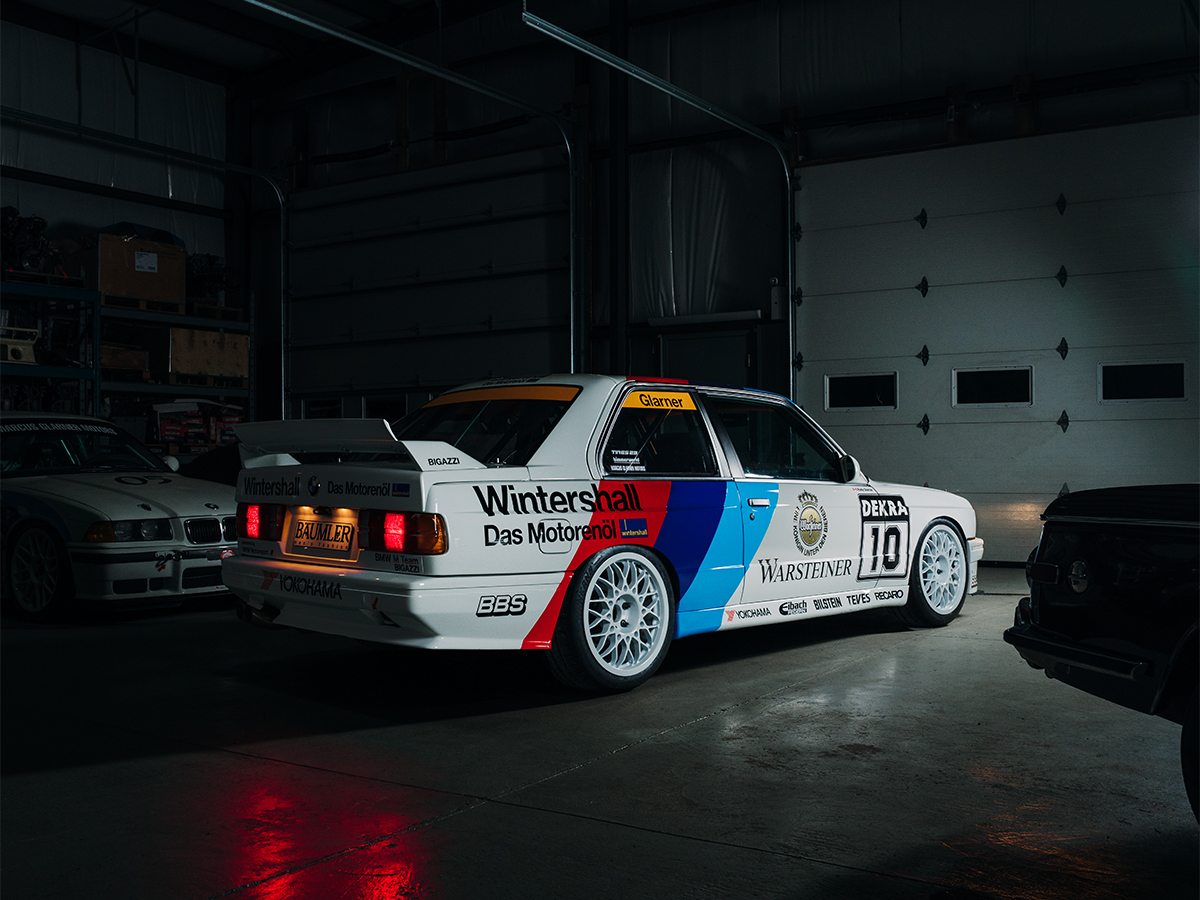
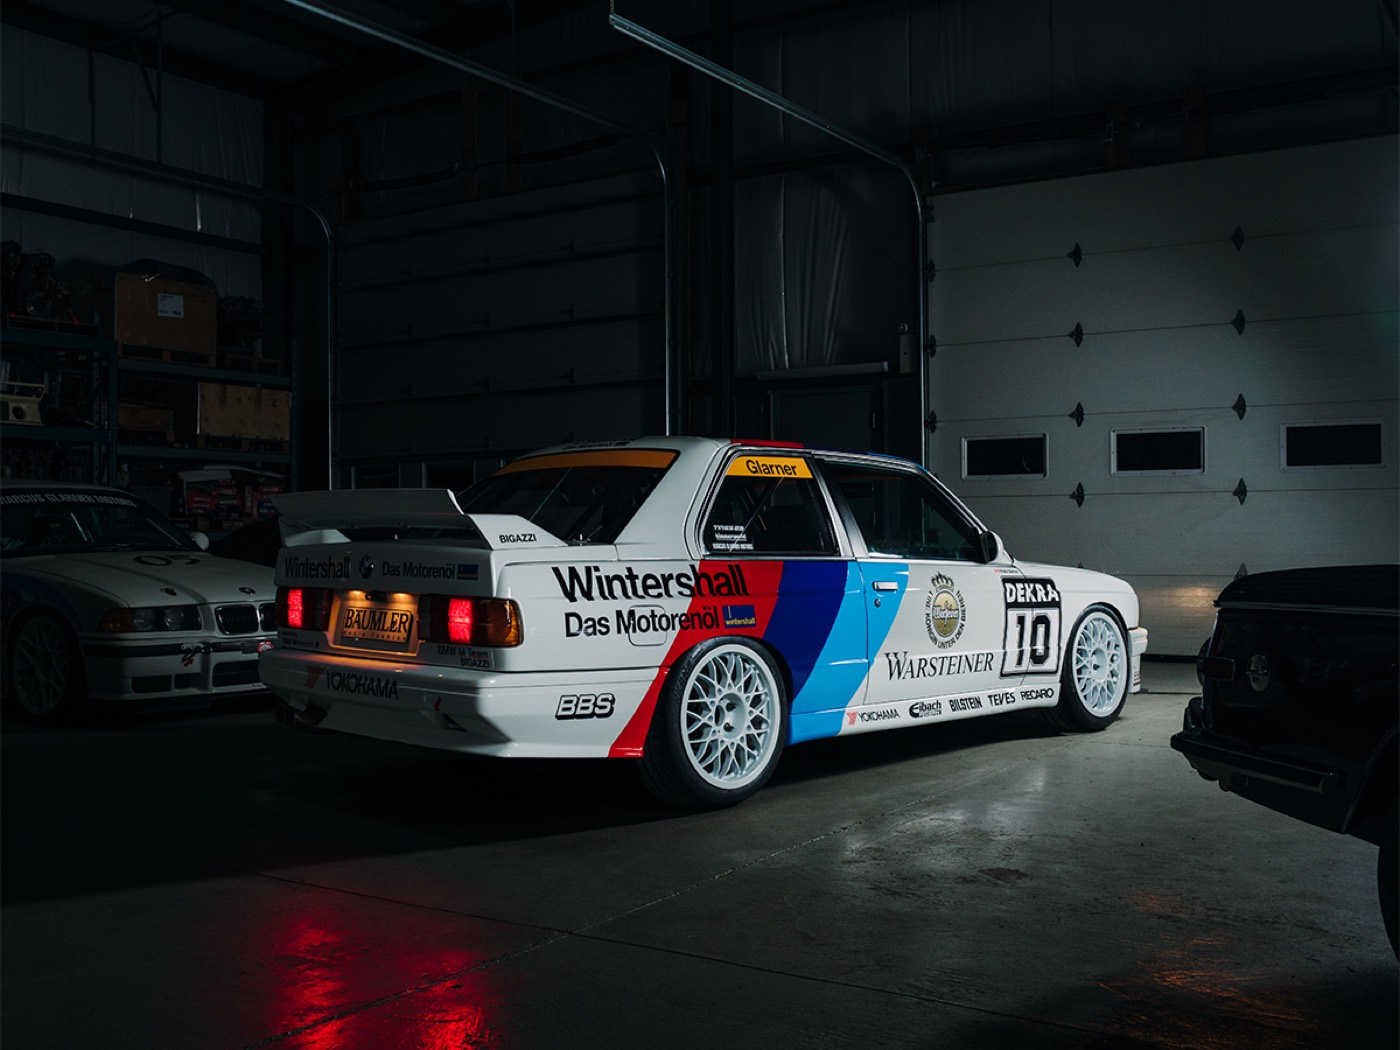
Improve load performance across the site
- Make Google Fonts non-render-blocking (preload + onload swap)
- Narrow Archivo font request to explicit weights only (removes large variable axes)
- Add defer to all script tags (GSAP, nav, loader, page scripts)
- Remove autoplay from hero videos; JS now staggers loading 180ms apart
- Reduce showcase IO rootMargin from 1000px to 400px
- Compress images: Film Strip JPEGs 2–4MB → 180–445KB; site images 540KB–1MB → 210–435KB

diff --git a/src/scripts/pages/home.js b/src/scripts/pages/home.js
@@ -79,6 +79,18 @@
     });
   }
 
+  function initHeroVideos() {
+    var videos = Array.from(document.querySelectorAll('.carousel-card video'));
+    if (!videos.length) return;
+    videos.forEach(function (v, i) {
+      setTimeout(function () {
+        v.setAttribute('preload', 'auto');
+        v.load();
+        v.play().catch(function () {});
+      }, i * 180);
+    });
+  }
+
   function initCarouselHover() {
     var cards = Array.from(document.querySelectorAll('.carousel-card'));
     var carousel = document.querySelector('.hero-carousel');
@@ -151,7 +163,7 @@
     if (window.IntersectionObserver) {
       var io = new IntersectionObserver(function (entries) {
         if (entries[0].isIntersecting) { loadActive(); io.disconnect(); }
-      }, { rootMargin: '0px 0px 1000px 0px' });
+      }, { rootMargin: '0px 0px 400px 0px' });
       io.observe(rail);
     } else {
       loadActive();
@@ -254,10 +266,11 @@
   }
 
   if (document.readyState === 'loading') {
-    document.addEventListener('DOMContentLoaded', function () { init(); initCarouselHover(); initShowcase(); });
+    document.addEventListener('DOMContentLoaded', function () { init(); initCarouselHover(); initShowcase(); initHeroVideos(); });
   } else {
     init();
     initCarouselHover();
     initShowcase();
+    initHeroVideos();
   }
 })();
